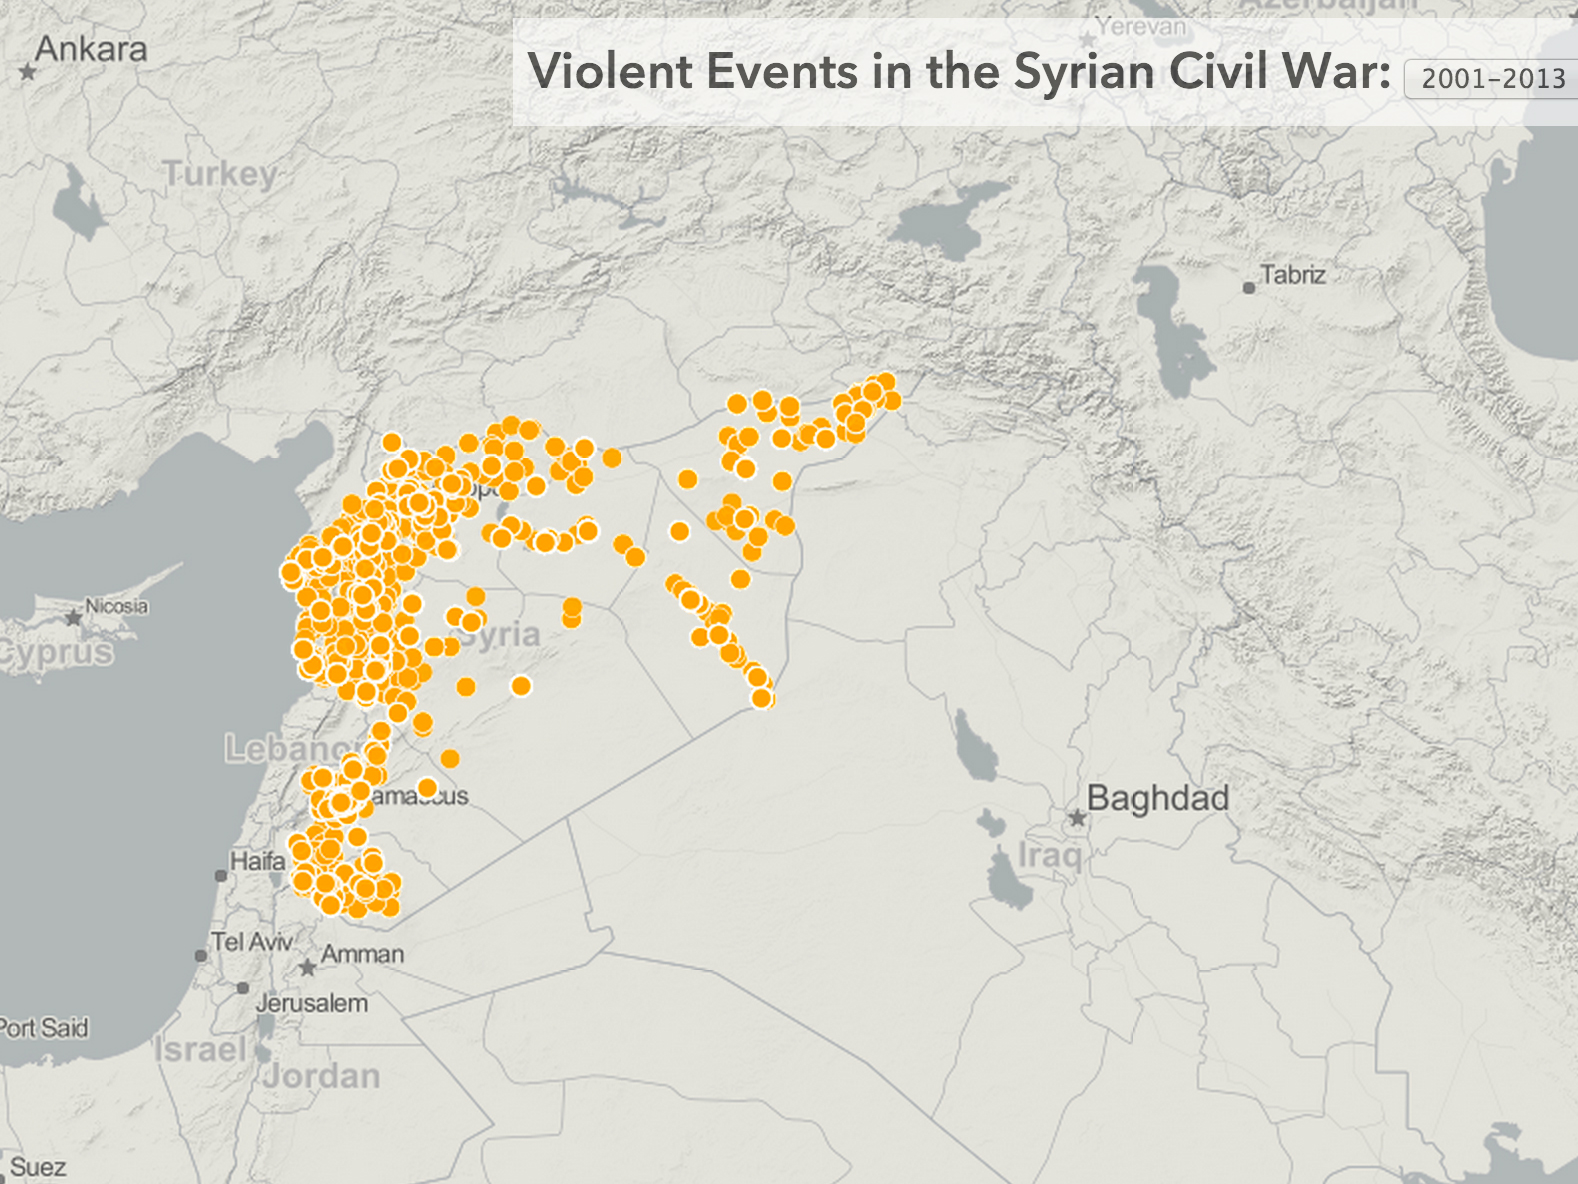
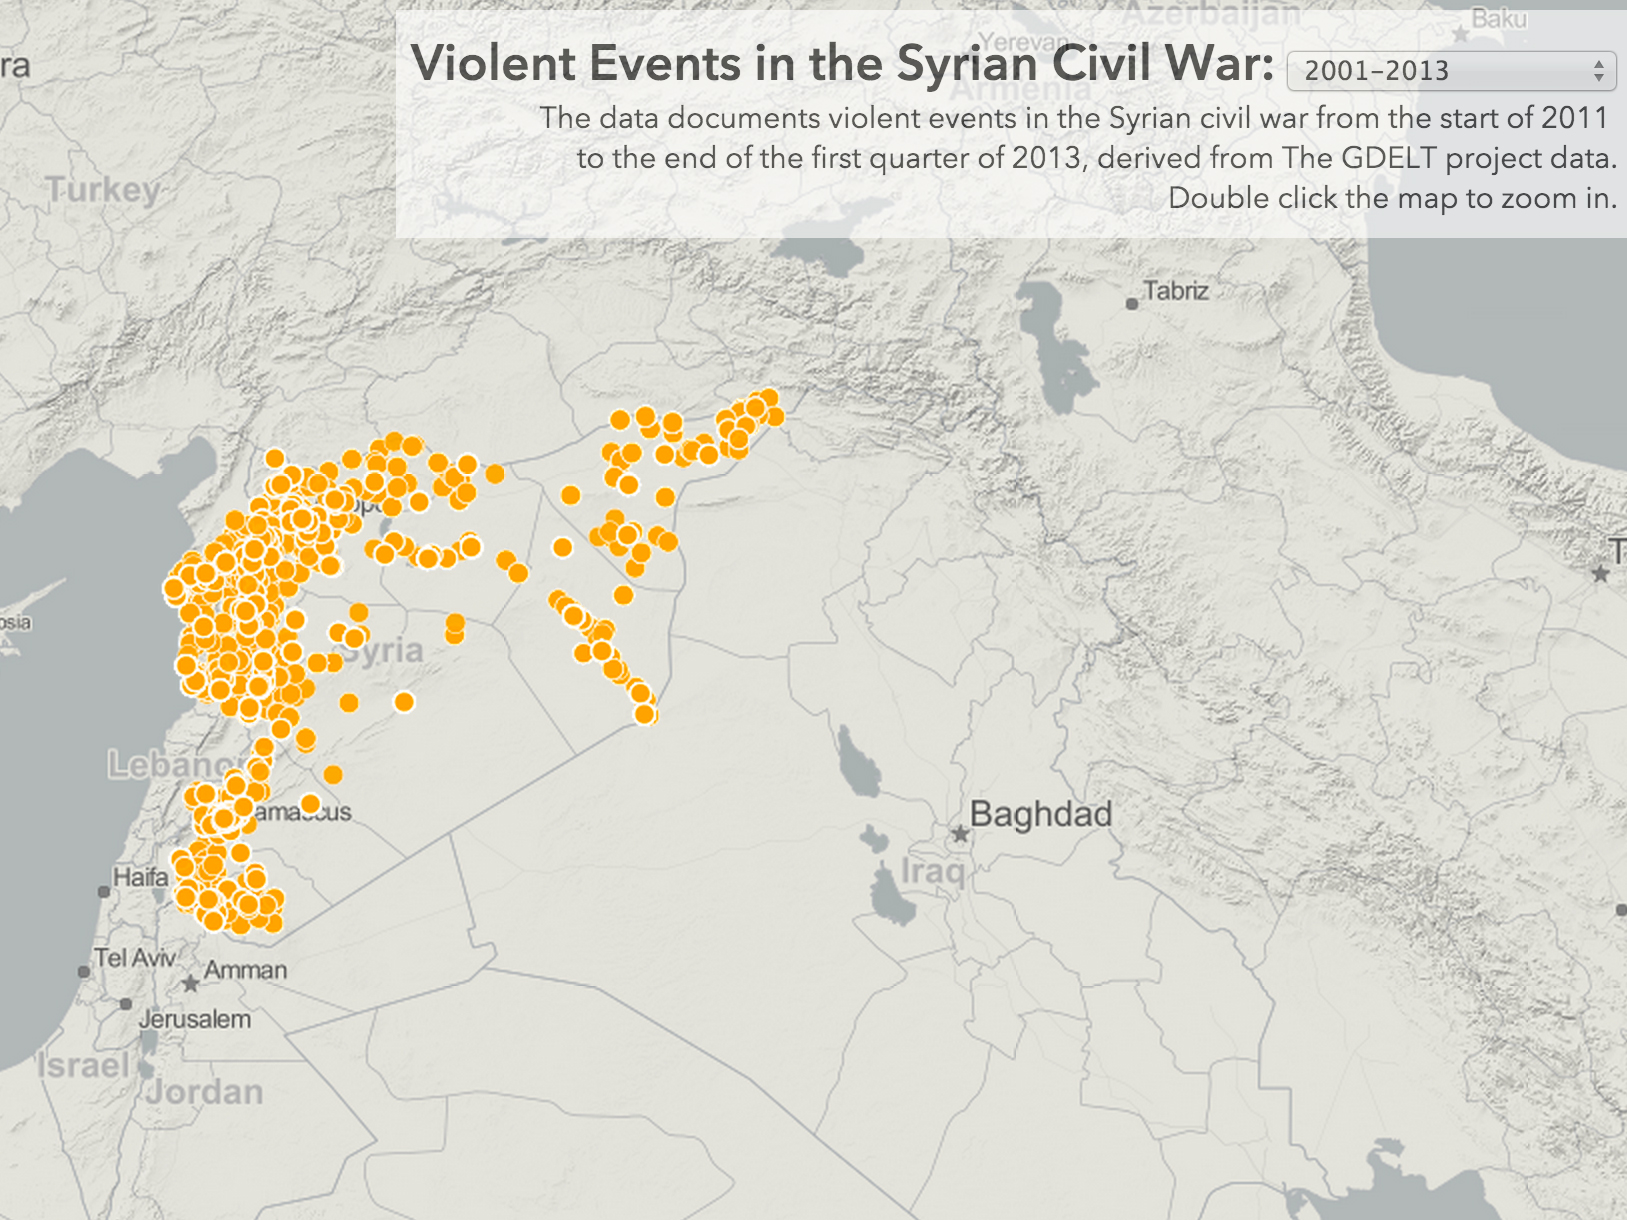
edited syria map

diff --git a/charts/syria/index.html b/charts/syria/index.html
@@ -38,7 +38,12 @@
         select { font-size: 20px; 
         		 font-family: Avenir Next;
         		}
+        #legend{ font-size: 15px;
+                 font-weight:400;
+                 text-align: right;
 
+
+        }
     </style>
 
 
@@ -54,6 +59,9 @@
                 <option value='y2013'>First Quarter of 2013</option>
             </select> 
          </p>
+         <p id="legend">
+         The data documents violent events in the Syrian civil war from the start of 2011 <br>
+         to the end of the first quarter of 2013, derived from The GDELT project data.<br> Double click the map to zoom in.</p>
      </div>
 
     <script>
